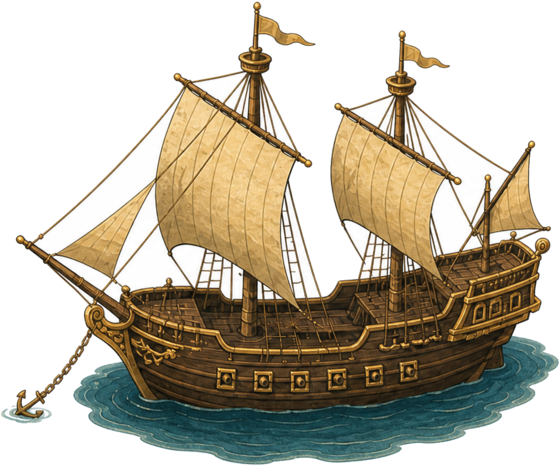
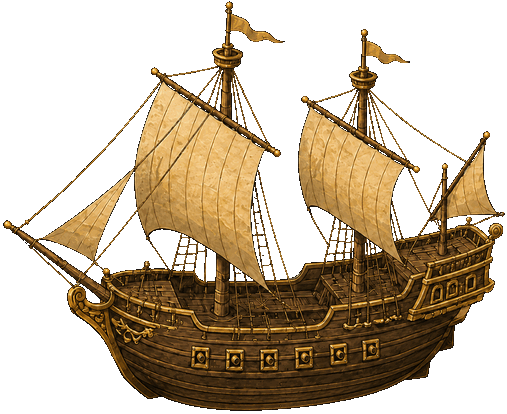
feat(ui): refresh charted ship and island art

diff --git a/packages/ui/src/scene/charted.ts b/packages/ui/src/scene/charted.ts
@@ -32,33 +32,33 @@ export interface IslandVariant {
  * Three island silhouettes. Peak anchors were tuned against the sprites so the
  * pennant seats on stone, not air or palm fronds.
  *
- *  - v1: single palm right, mid rock  — peak slightly left of centre-top
- *  - v2: twin palms flanking a lower mound — peak mid, lower in frame
- *  - v3: tall central spire, palm right — peak high near frame top
+ *  - v1: single palm right, broad mid-height rock mound
+ *  - v2: twin palms flanking a low central rock mound
+ *  - v3: tall central rock spire with a palm at right
  */
 export const ISLAND_VARIANTS: readonly IslandVariant[] = [
-  { id: 1, src: island1Url, peak: { x: 44, y: 10 } },
-  { id: 2, src: island2Url, peak: { x: 49, y: 30 } },
-  { id: 3, src: island3Url, peak: { x: 45, y: 8 } },
+  { id: 1, src: island1Url, peak: { x: 46, y: 10 } },
+  { id: 2, src: island2Url, peak: { x: 43, y: 32 } },
+  { id: 3, src: island3Url, peak: { x: 45, y: 0 } },
 ] as const;
 
-/** Orchestrator galleon sprite (two-masted, waterline ripple baked in). */
+/** Orchestrator galleon sprite (waterless, with transparent background). */
 export const GALLEON_SRC = galleonUrl;
 
 /**
  * Dressing-lines overlay is authored in the galleon sprite's native pixel
- * space (560×466) so mastheads land on the raster masts. Halyard runs
+ * space (507×414) so mastheads land on the raster masts. Halyard runs
  * stem → fore → main → stern ("dressed overall").
  */
-export const GALLEON_VIEW = { w: 560, h: 466 } as const;
+export const GALLEON_VIEW = { w: 507, h: 414 } as const;
 /** Fore and main mastheads (native px) — dress flags string between them. */
 export const GALLEON_MASTS = {
-  // Measured on the 560×466 sprite (grid overlay): bowsprit tip, the two
+  // Measured on the 507×414 sprite from alpha/dark-pixel scans: bowsprit tip, the two
   // masthead hoists just under their pennants, and the mizzen top aft.
-  fore: { x: 252, y: 34 },
-  main: { x: 400, y: 58 },
-  stem: { x: 24, y: 232 },
-  stern: { x: 525, y: 152 },
+  fore: { x: 229, y: 47 },
+  main: { x: 364, y: 68 },
+  stem: { x: 8, y: 226 },
+  stern: { x: 486, y: 135 },
 } as const;
 
 /** Deterministic island art variant for a task id (stable for the task's life). */

diff --git a/packages/ui/src/scene/scene.css b/packages/ui/src/scene/scene.css
@@ -448,12 +448,12 @@
   position: absolute;
   left: 0;
   top: 0;
-  /* Box aspect matches the painted sprite's native canvas (1672×941) so the
+  /* Box aspect matches the painted sprite's native canvas (640×539) so the
      base raster and every mask layer stretch to 100%/100% with zero distortion. */
   width: 84px;
-  height: 47px;
+  height: 71px;
   margin-left: -42px;
-  margin-top: -23px;
+  margin-top: -36px;
 }
 .pc-sloop__art {
   position: relative;
@@ -503,8 +503,8 @@
 .pc-sloop__tints {
   position: absolute;
   inset: 0;
-  -webkit-mask-image: url("./assets/charted/sloop-silhouette-mask.svg");
-  mask-image: url("./assets/charted/sloop-silhouette-mask.svg");
+  -webkit-mask-image: url("./assets/charted/sloop-silhouette-mask.png");
+  mask-image: url("./assets/charted/sloop-silhouette-mask.png");
   mask-repeat: no-repeat;
   mask-size: 100% 100%;
   -webkit-mask-repeat: no-repeat;
@@ -528,18 +528,18 @@
   opacity: 0.92;
 }
 .pc-sloop__tint--sail {
-  -webkit-mask-image: url("./assets/charted/sloop-sail-mask.svg");
-  mask-image: url("./assets/charted/sloop-sail-mask.svg");
+  -webkit-mask-image: url("./assets/charted/sloop-sail-mask.png");
+  mask-image: url("./assets/charted/sloop-sail-mask.png");
 }
 .pc-sloop__tint--pennant {
-  -webkit-mask-image: url("./assets/charted/sloop-pennant-mask.svg");
-  mask-image: url("./assets/charted/sloop-pennant-mask.svg");
+  -webkit-mask-image: url("./assets/charted/sloop-pennant-mask.png");
+  mask-image: url("./assets/charted/sloop-pennant-mask.png");
 }
 /* Hull waterline band: opaque coat-dark fill, same as the old vector waterline. */
 .pc-sloop__tint--hull {
   background: var(--coat-dark);
-  -webkit-mask-image: url("./assets/charted/sloop-hullband-mask.svg");
-  mask-image: url("./assets/charted/sloop-hullband-mask.svg");
+  -webkit-mask-image: url("./assets/charted/sloop-hullband-mask.png");
+  mask-image: url("./assets/charted/sloop-hullband-mask.png");
 }
 .pc-sloop__emblem-layer {
   position: absolute;
@@ -567,7 +567,7 @@
   left: 50%;
   top: 18%;
   width: 84px;
-  height: 47px;
+  height: 71px;
   margin-left: -42px;
   animation: pc-sail-off 2400ms ease-in forwards;
 }

diff --git a/packages/ui/src/scene/Ship.tsx b/packages/ui/src/scene/Ship.tsx
@@ -3,7 +3,7 @@ import type { EmblemMark } from "../tokens/factions.js";
 import { stationOffset, voyageFromFlagship } from "./layout.js";
 import { Wake } from "./effects/Wake.js";
 import sloopUrl from "./assets/charted/sloop.png";
-// Tint masks (sloop-{silhouette,sail,hullband,pennant}-mask.svg) are referenced
+// Tint masks (sloop-{silhouette,sail,hullband,pennant}-mask.png) are referenced
 // directly from scene.css via relative `mask-image: url(...)` — Vite resolves
 // and fingerprints them like any other CSS asset. Kept out of JS/inline style:
 // an earlier attempt setting `mask-image` via React inline `style` silently
@@ -57,10 +57,10 @@ function SailMark({ emblem }: { emblem: EmblemMark }): ReactNode {
  * direction and style-locked composition as the galleon/islands), with the
  * faction coat expressed via CSS `mask-image` + `background-color` recolor
  * layers instead of hand-authored SVG fills. Three tintable regions were
- * traced (potrace) from flat-silhouette generations of the same composition:
+ * segmented as aligned raster masks from the same composition:
  * mainsail+jib and masthead pennant (coat, `mix-blend-mode: color` so the
  * raster's own paint shading/highlights show through the recolor), and the
- * hull waterline band (coat-dark, opaque). A fourth trace of the full sprite's
+ * hull waterline band (coat-dark, opaque). A fourth mask of the full sprite's
  * own alpha silhouette clips the tint layers so a slightly generous mask trace
  * never bleeds paint past the hull/sail edges. The neutral wood-hull/rigging
  * detail underneath is shared by every faction — zero new art per faction,

diff --git a/packages/ui/src/scene/Flagship.tsx b/packages/ui/src/scene/Flagship.tsx
@@ -17,15 +17,15 @@ const DRESS_HALYARD =
 /** Flag seats sampled along the halyard quadratics (bowsprit → fore → main
  * → mizzen), so every flag hangs from the string instead of floating. */
 const DRESS_FLAGS: ReadonlyArray<{ x: number; y: number }> = [
-  { x: 93, y: 183 },
-  { x: 149, y: 135 },
-  { x: 206, y: 82 },
+  { x: 74, y: 181 },
+  { x: 130, y: 137 },
+  { x: 185, y: 89 },
   { x: fore.x, y: fore.y + 4 },
-  { x: 301, y: 38 },
-  { x: 350, y: 44 },
+  { x: 274, y: 47 },
+  { x: 318, y: 53 },
   { x: main.x, y: main.y + 4 },
-  { x: 444, y: 97 },
-  { x: 487, y: 130 },
+  { x: 403, y: 89 },
+  { x: 443, y: 106 },
 ];
 
 /** The hoisted string of signal flags. Rendered only while every task island in
